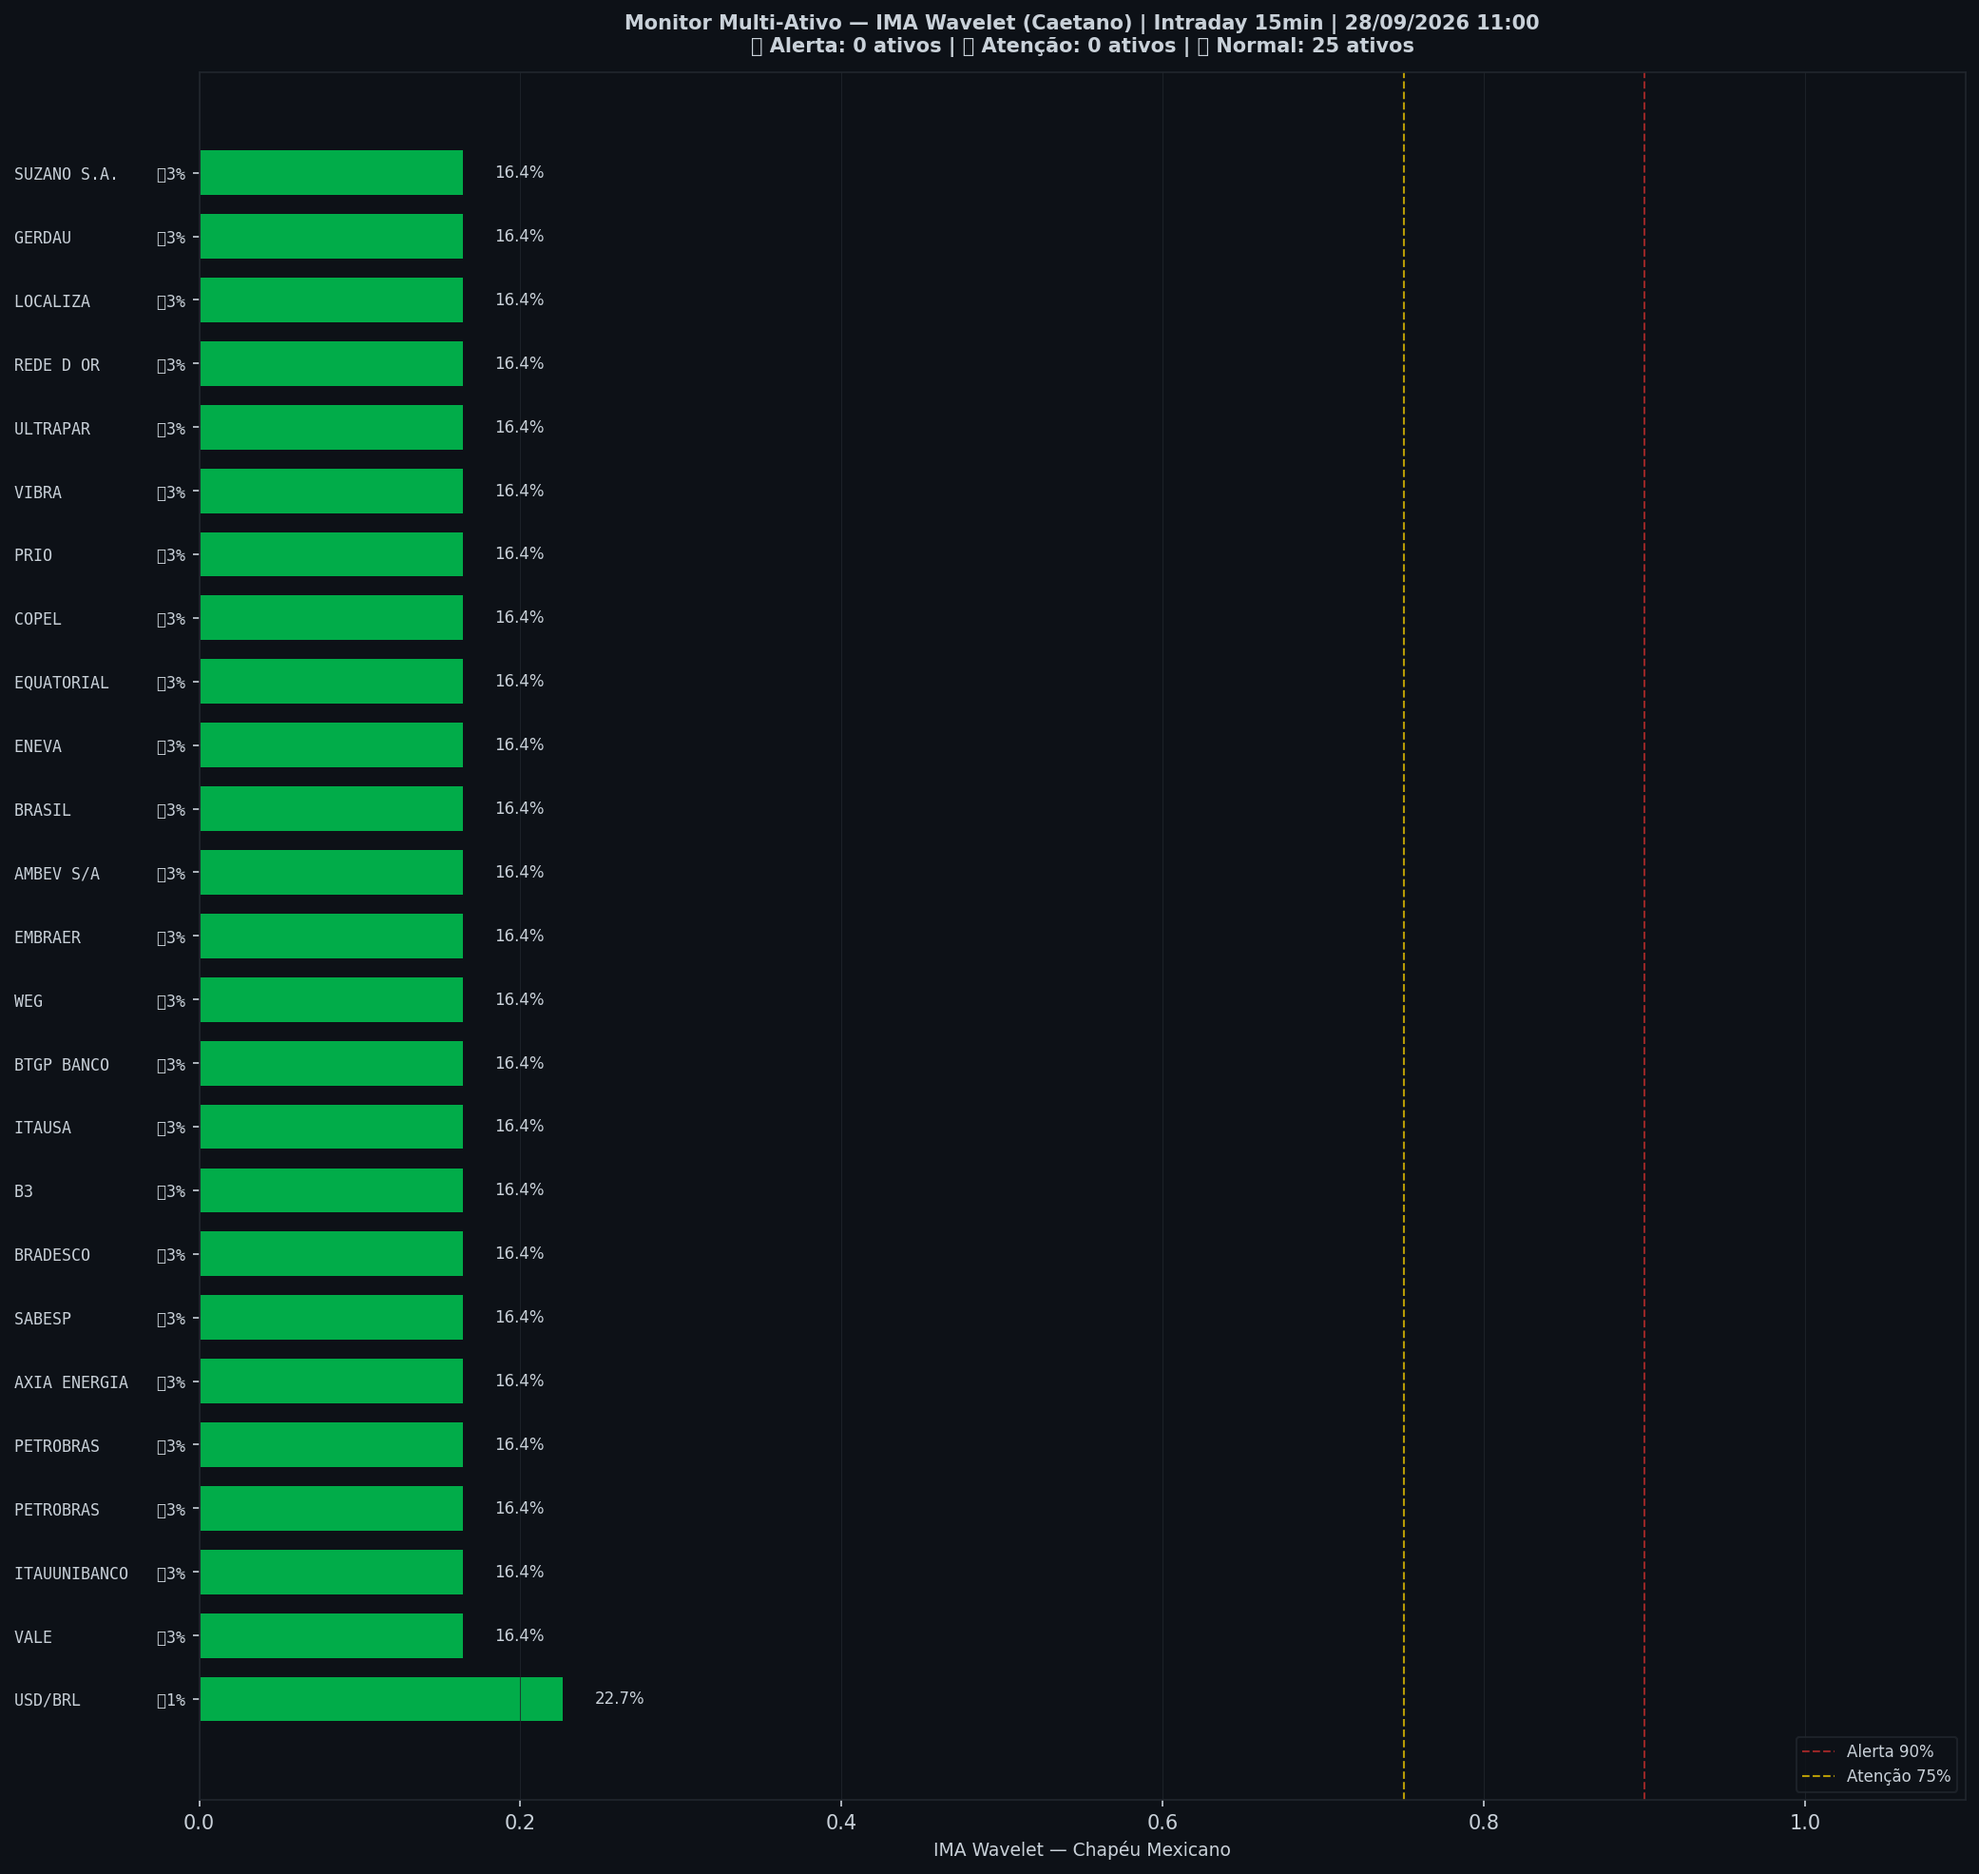
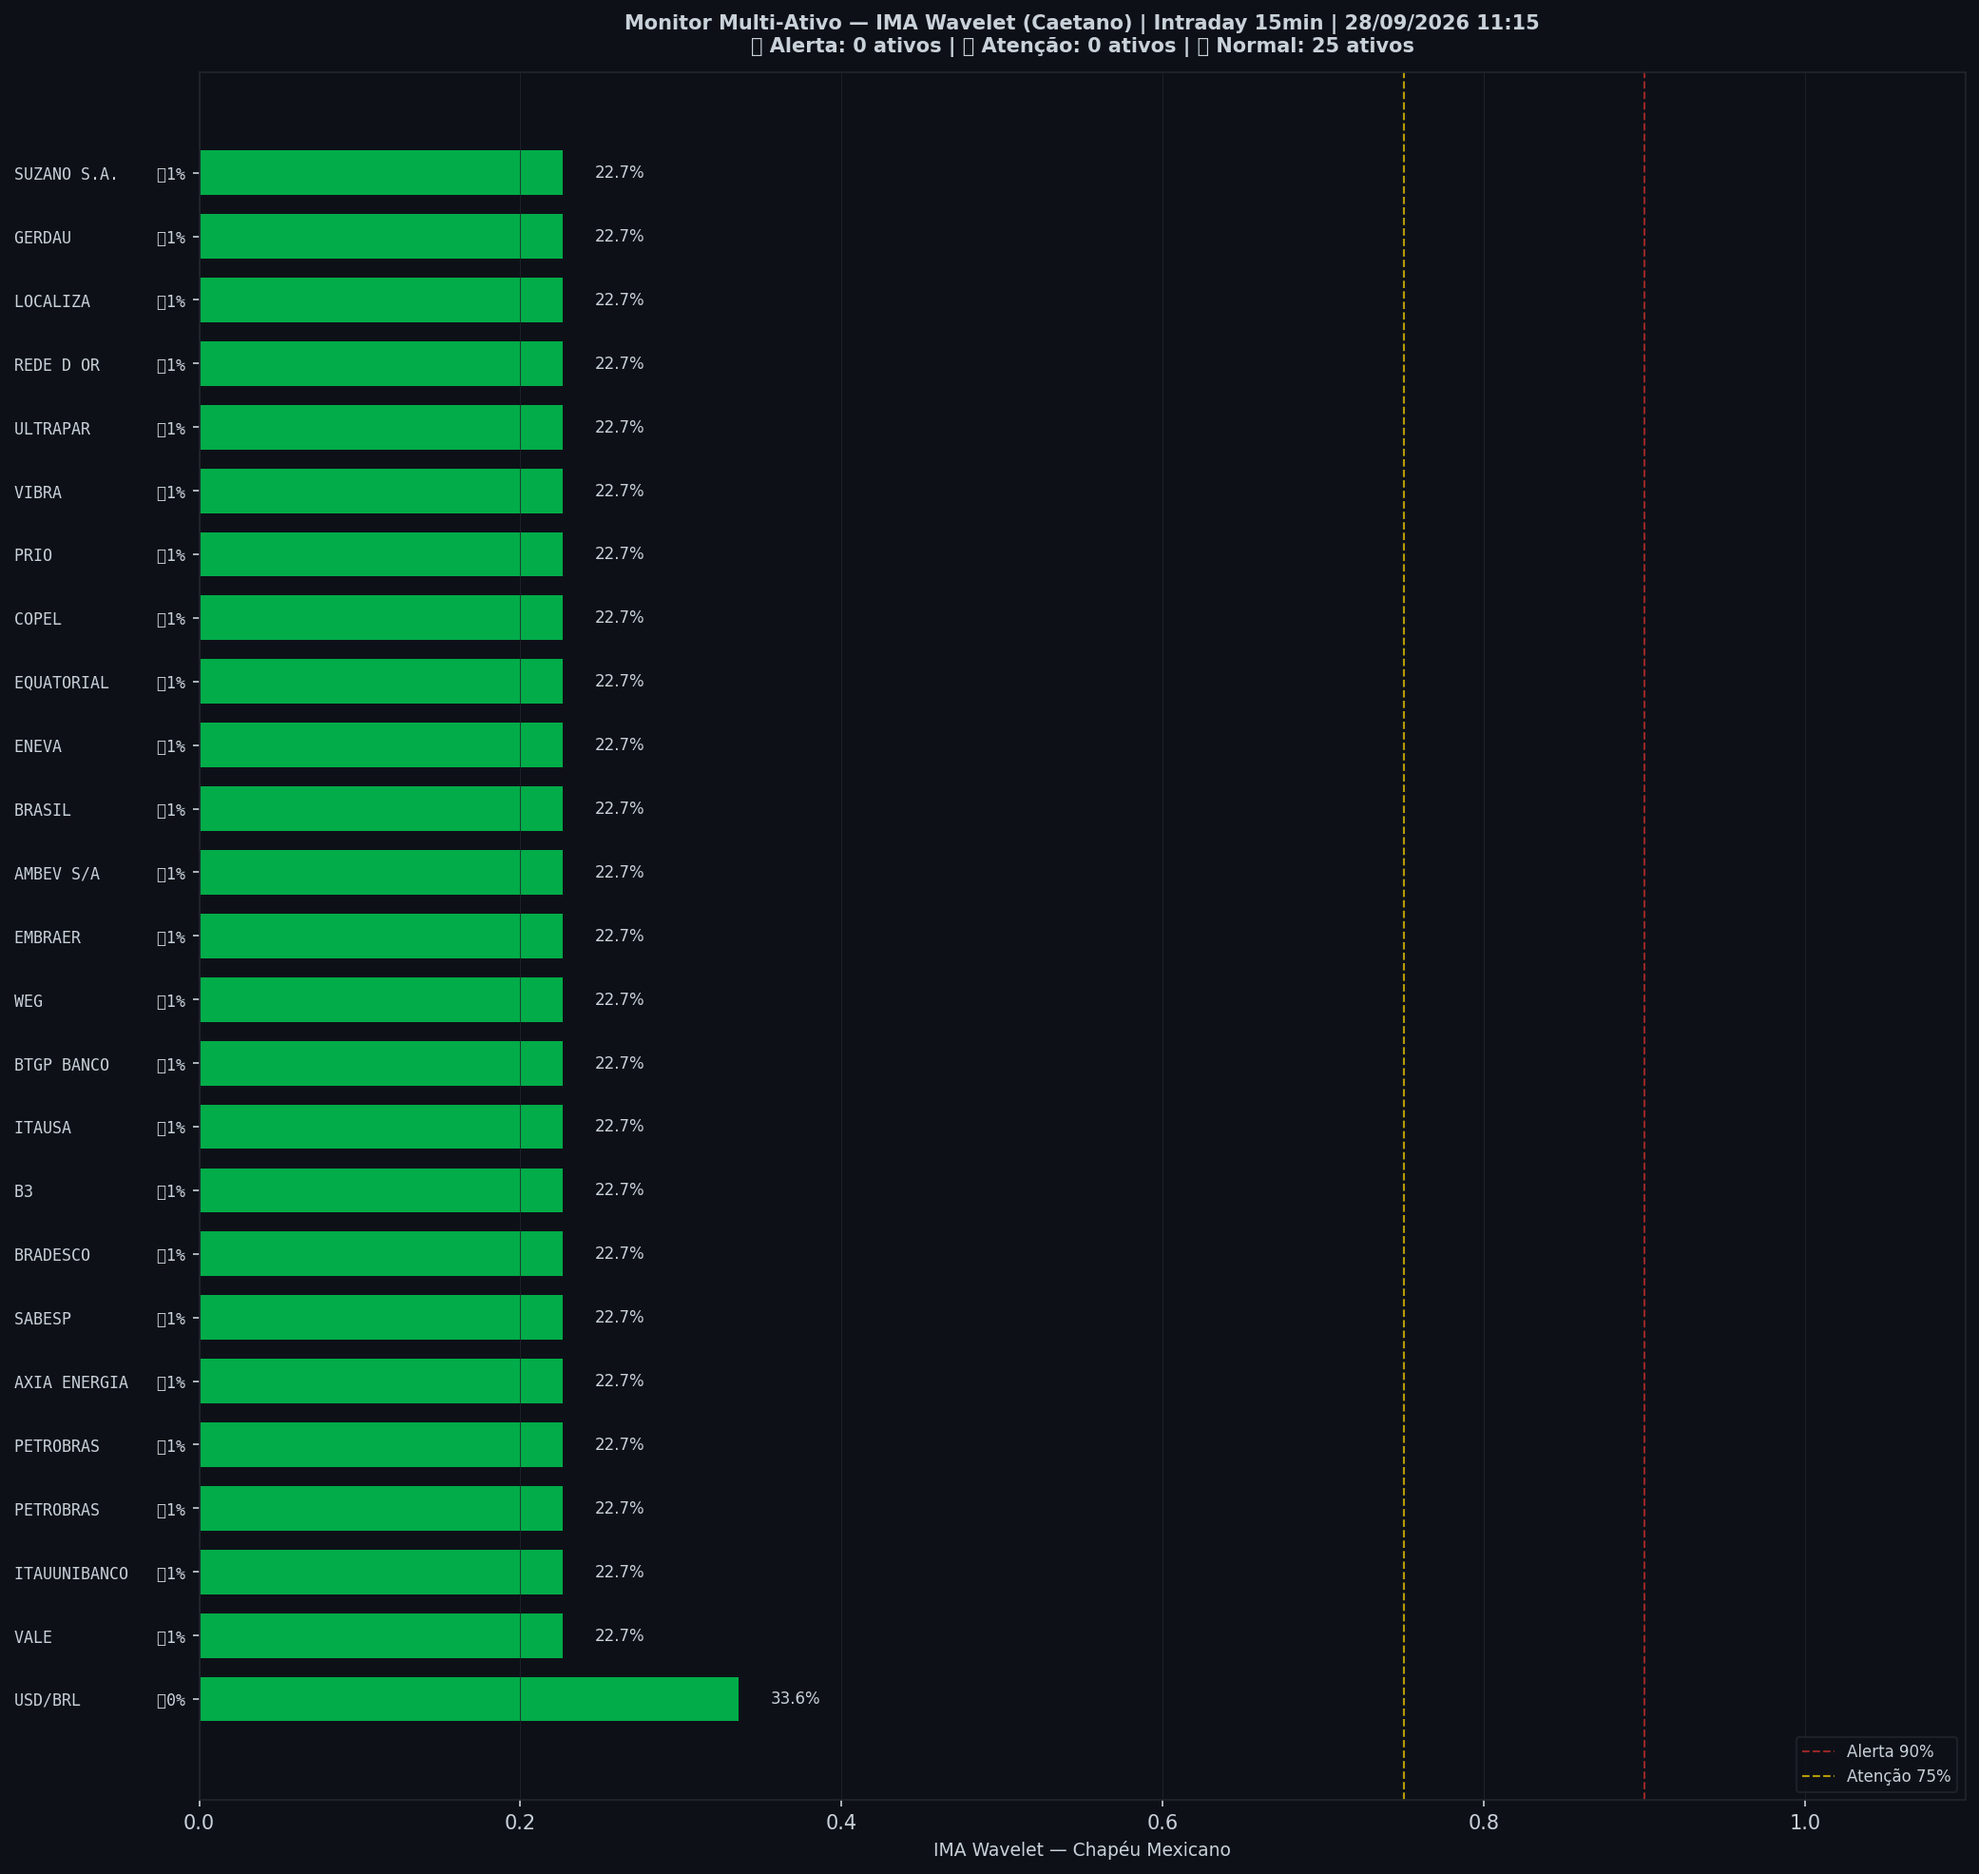
🤖 Auto: Sinal 28/09/2026 11:16

Changed region(s): [[0.2185, 0.0619, 0.3746, 0.9285]]

diff --git a/content/intraday/2026-09-28.md b/content/intraday/2026-09-28.md
@@ -1,20 +1,20 @@
 ---
-title: "🟢 Intraday 28/09/2026 10:15 BRT — VERDE"
+title: "🟢 Intraday 28/09/2026 10:30 BRT — VERDE"
 date: 2026-09-28
 tags: [intraday]
 ---
 
-> [!success] 🟢 **VERDE** — Risco 2% · ＝ +0 p.p. vs leitura anterior
+> [!success] 🟢 **VERDE** — Risco 1% · ▼ -1 p.p. vs leitura anterior
 > `░░░░░░░░░░░░░░░░░░░░`
 > Mercado sem sinais relevantes de estresse.
 
 
 | Indicador | Valor |
 |---|---|
-| 🔴 ζ Crash — severidade da queda em curso | **2%** |
-| 🔵 ζ Entrada — estrutura de fundo | 34% |
+| 🔴 ζ Crash — severidade da queda em curso | **1%** |
+| 🔵 ζ Entrada — estrutura de fundo | 43% |
 | 🫧 LPPL DS-Confidence | 0% |
-| 📊 Ibovespa | 182.316 pts |
+| 📊 Ibovespa | 182.211 pts |
 
 ![Gráfico do sinal](../graficos/sinal_intraday.png)
 
@@ -22,6 +22,7 @@ tags: [intraday]
 
 | Data | Zona | Risco | IMA Crash | Entrada | LPPL |
 |---|---|---|---|---|---|
+| 2026-09-28 10:30 | 🟢 VERDE | **1%** | 1% | 43% | 0% |
 | 2026-09-28 10:15 | 🟢 VERDE | **2%** | 2% | 34% | 0% |
 | 2026-09-28 10:00 | 🟢 VERDE | **2%** | 2% | 25% | 0% |
 | 2026-09-25 16:45 | 🟢 VERDE | **0%** | 0% | 23% | 0% |
@@ -51,7 +52,6 @@ tags: [intraday]
 | 2026-09-25 10:45 | 🟢 VERDE | **1%** | 1% | 98% | 0% |
 | 2026-09-25 10:30 | 🟢 VERDE | **2%** | 2% | 98% | 0% |
 | 2026-09-25 10:15 | 🟢 VERDE | **1%** | 1% | 97% | 0% |
-| 2026-09-25 10:00 | 🟢 VERDE | **0%** | 0% | 95% | 0% |
 
 ## Monitor Multi-Ativo
 
@@ -59,35 +59,35 @@ tags: [intraday]
 
 | Zona | Ativo | Setor | IMA Crash | IMA Entrada |
 |---|---|---|---|---|
-| 🟢 | **USD/BRL** | Câmbio | 22.7% | 0.8% |
-| 🟢 | **VALE** | Mineração | 16.4% | 3.1% |
-| 🟢 | **ITAUUNIBANCO** | Financeiro | 16.4% | 3.1% |
-| 🟢 | **PETROBRAS** | Petróleo | 16.4% | 3.1% |
-| 🟢 | **PETROBRAS** | Petróleo | 16.4% | 3.1% |
-| 🟢 | **AXIA ENERGIA** | Energia | 16.4% | 3.1% |
-| 🟢 | **SABESP** | Saneamento | 16.4% | 3.1% |
-| 🟢 | **BRADESCO** | Financeiro | 16.4% | 3.1% |
-| 🟢 | **B3** | Financeiro | 16.4% | 3.1% |
-| 🟢 | **ITAUSA** | Financeiro | 16.4% | 3.1% |
-| 🟢 | **BTGP BANCO** | Financeiro | 16.4% | 3.1% |
-| 🟢 | **WEG** | Industrial | 16.4% | 3.1% |
-| 🟢 | **EMBRAER** | Outros | 16.4% | 3.1% |
-| 🟢 | **AMBEV S/A** | Consumo | 16.4% | 3.1% |
-| 🟢 | **BRASIL** | Financeiro | 16.4% | 3.1% |
-| 🟢 | **ENEVA** | Energia | 16.4% | 3.1% |
-| 🟢 | **EQUATORIAL** | Energia | 16.4% | 3.1% |
-| 🟢 | **COPEL** | Energia | 16.4% | 3.1% |
-| 🟢 | **PRIO** | Petróleo | 16.4% | 3.1% |
-| 🟢 | **VIBRA** | Energia | 16.4% | 3.1% |
-| 🟢 | **ULTRAPAR** | Outros | 16.4% | 3.1% |
-| 🟢 | **REDE D OR** | Saúde | 16.4% | 3.1% |
-| 🟢 | **LOCALIZA** | Aluguel | 16.4% | 3.1% |
-| 🟢 | **GERDAU** | Siderurgia | 16.4% | 3.1% |
-| 🟢 | **SUZANO S.A.** | Papel/Celulose | 16.4% | 3.1% |
+| 🟢 | **USD/BRL** | Câmbio | 33.6% | 0.0% |
+| 🟢 | **VALE** | Mineração | 22.7% | 0.8% |
+| 🟢 | **ITAUUNIBANCO** | Financeiro | 22.7% | 0.8% |
+| 🟢 | **PETROBRAS** | Petróleo | 22.7% | 0.8% |
+| 🟢 | **PETROBRAS** | Petróleo | 22.7% | 0.8% |
+| 🟢 | **AXIA ENERGIA** | Energia | 22.7% | 0.8% |
+| 🟢 | **SABESP** | Saneamento | 22.7% | 0.8% |
+| 🟢 | **BRADESCO** | Financeiro | 22.7% | 0.8% |
+| 🟢 | **B3** | Financeiro | 22.7% | 0.8% |
+| 🟢 | **ITAUSA** | Financeiro | 22.7% | 0.8% |
+| 🟢 | **BTGP BANCO** | Financeiro | 22.7% | 0.8% |
+| 🟢 | **WEG** | Industrial | 22.7% | 0.8% |
+| 🟢 | **EMBRAER** | Outros | 22.7% | 0.8% |
+| 🟢 | **AMBEV S/A** | Consumo | 22.7% | 0.8% |
+| 🟢 | **BRASIL** | Financeiro | 22.7% | 0.8% |
+| 🟢 | **ENEVA** | Energia | 22.7% | 0.8% |
+| 🟢 | **EQUATORIAL** | Energia | 22.7% | 0.8% |
+| 🟢 | **COPEL** | Energia | 22.7% | 0.8% |
+| 🟢 | **PRIO** | Petróleo | 22.7% | 0.8% |
+| 🟢 | **VIBRA** | Energia | 22.7% | 0.8% |
+| 🟢 | **ULTRAPAR** | Outros | 22.7% | 0.8% |
+| 🟢 | **REDE D OR** | Saúde | 22.7% | 0.8% |
+| 🟢 | **LOCALIZA** | Aluguel | 22.7% | 0.8% |
+| 🟢 | **GERDAU** | Siderurgia | 22.7% | 0.8% |
+| 🟢 | **SUZANO S.A.** | Papel/Celulose | 22.7% | 0.8% |
 
 ![Monitor multi-ativo](../graficos/multi_intraday.png)
 
-*Página atualizada em 28/09/2026 11:01 BRT (leitura da barra de 2026-09-28 10:15 BRT).*
+*Página atualizada em 28/09/2026 11:16 BRT (leitura da barra de 2026-09-28 10:30 BRT).*
 
 > [!info]- Como interpretar (clique para expandir)
 > - **ζ Crash**: fração dos coeficientes wavelet acima do corte (Caetano & Yoneyama 2009). Escala absoluta: ζ=0,90 = 90% dos coeficientes anômalos — historicamente, quedas com ζ≥0,90 foram mais fundas e mais longas. **Mede a severidade do movimento em curso, não prevê o início da queda.**

diff --git a/content/index.md b/content/index.md
@@ -8,19 +8,19 @@ tags: [home]
 
 Monitoramento diário e intraday do Ibovespa — **IMA Wavelet** (Prof. Marco Antonio Leonel Caetano, ITA/INSPER) + **LPPL DS-Confidence** (Prof. Didier Sornette, ETH-Zurich).
 
-*Última atualização: 28/09/2026 11:01 BRT · ^BVSP · Intraday 15min · v4*
+*Última atualização: 28/09/2026 11:16 BRT · ^BVSP · Intraday 15min · v4*
 
-> [!success] 🟢 **VERDE** — Risco 2% · ＝ +0 p.p. vs leitura anterior
+> [!success] 🟢 **VERDE** — Risco 1% · ▼ -1 p.p. vs leitura anterior
 > `░░░░░░░░░░░░░░░░░░░░`
 > Mercado sem sinais relevantes de estresse.
 
 
 | Indicador | Valor |
 |---|---|
-| 🔴 ζ Crash — severidade da queda em curso | **2%** |
-| 🔵 ζ Entrada — estrutura de fundo | 34% |
+| 🔴 ζ Crash — severidade da queda em curso | **1%** |
+| 🔵 ζ Entrada — estrutura de fundo | 43% |
 | 🫧 LPPL DS-Confidence | 0% |
-| 📊 Ibovespa | 182.316 pts |
+| 📊 Ibovespa | 182.211 pts |
 
 **Multi-ativo:** 0% em tensão (0🔴 0🟡 de 25 ativos)
 
@@ -32,7 +32,7 @@ Monitoramento diário e intraday do Ibovespa — **IMA Wavelet** (Prof. Marco An
 
 | Data | Zona | Risco | IMA | LPPL |
 |---|---|---|---|---|
-| [28 Sep 2026](diario/2026-09-28) | 🟢 VERDE | **2%** | 2% | 0% |
+| [28 Sep 2026](diario/2026-09-28) | 🟢 VERDE | **1%** | 1% | 0% |
 | [25 Sep 2026](diario/2026-09-25) | 🟢 VERDE | **0%** | 0% | 0% |
 
 ## Navegação

diff --git a/content/historico.md b/content/historico.md
@@ -7,6 +7,7 @@ tags: [historico]
 
 | Data | Modo | Zona | Risco | IMA | LPPL |
 |---|---|---|---|---|---|
+| 2026-09-28 10:30 | intraday | 🟢 VERDE | 1% | 1% | 0% |
 | 2026-09-28 10:15 | intraday | 🟢 VERDE | 2% | 2% | 0% |
 | 2026-09-28 10:00 | intraday | 🟢 VERDE | 2% | 2% | 0% |
 | 2026-09-24 | diario | 🟢 VERDE | 1% | 2% | 0% |
